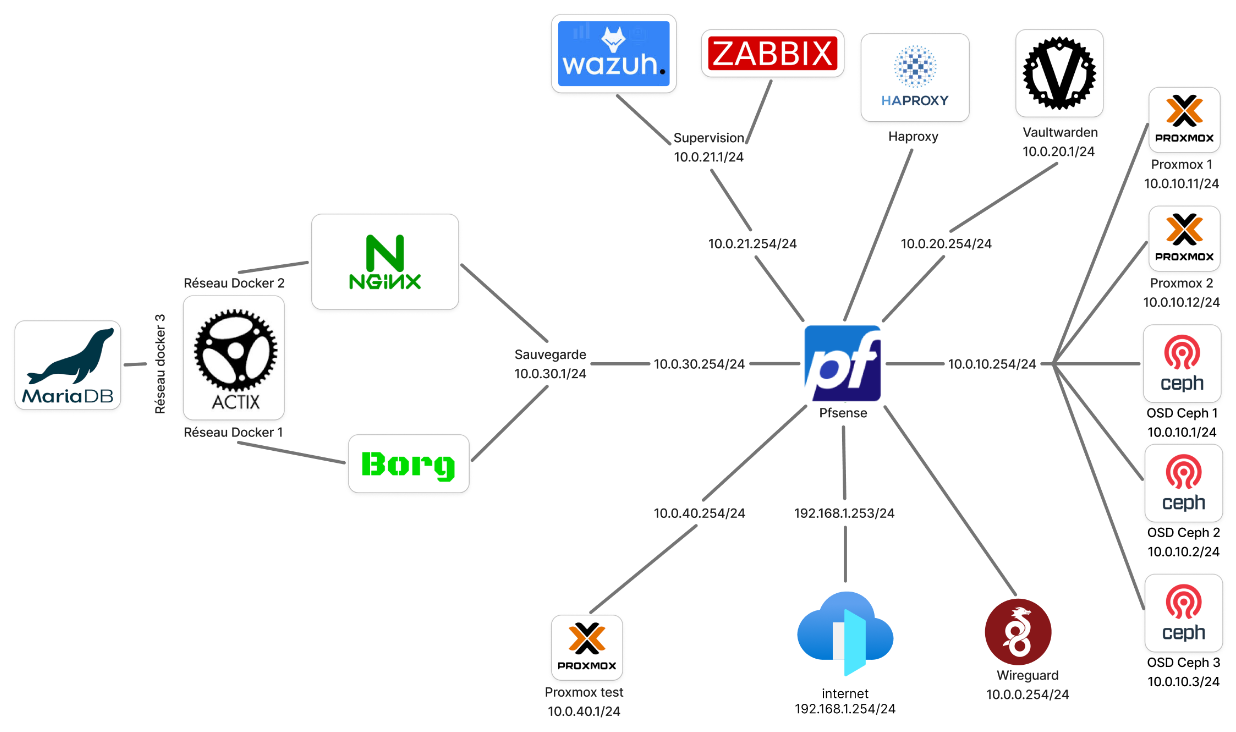
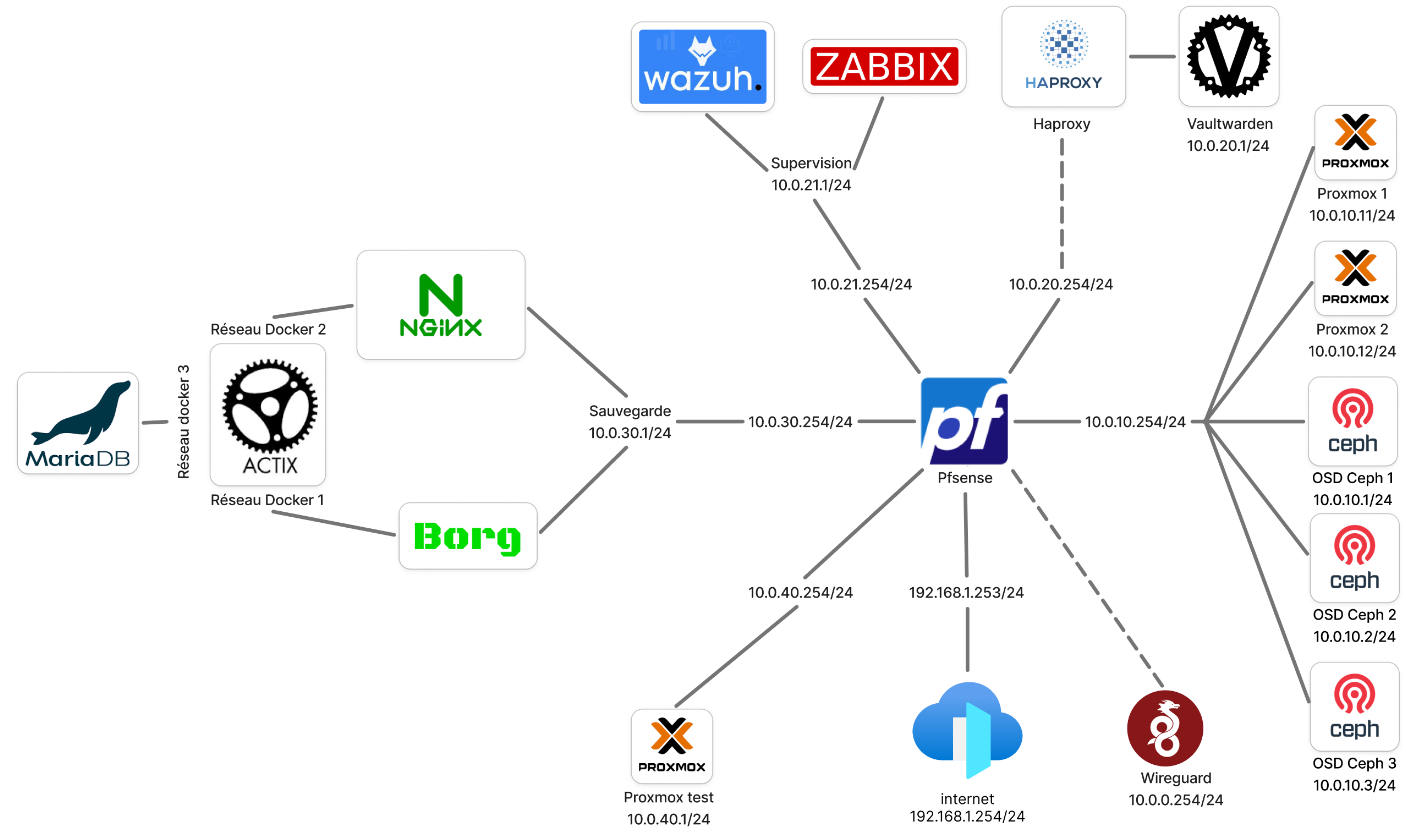
documentation du readme.md

diff --git a/README.md b/README.md
@@ -21,7 +21,7 @@
 
 ## 2. Description du projet
 
-Ce projet consiste en une solution de sauvegarde chiffrée de fichiers sécurisée. Un utilisateur peut depuis une interface web/application sauvegarder ses fichiers en toute sécurité de n'importe où. Chaque utilisateur possède donc un compte qui lui permet d'intéragir avec ses sauvegardes et d'en créer des nouvelles. 
+Ce projet consiste en une solution de sauvegarde chiffrée de fichiers sécurisée. Il permet de séparer le processus de sauvegarde qui est automatique et invisible et la restauration des sauvegarde qui demandera toujours un mot de passe. Une application est intégrer afin définir les dossiers à sauvegarde et lors de la restauration d’une sauvegarde chiffrer que cette action ne soit pas automatique comme pour la sauvegarde mais requiert des identifiants. Comment ça en cas de compromission du pc du client, l’attaquant ne puisse seulement qu’ajouter des données dans le dépôt du client mais ne puisse ni les restaurer ou ni les supprimer. Elle servira aussi à avoir un retour sur les logs, les archives et les fichiers qui ont été sauvegarder mais également à créer le dépôt Borg et authentifier les utilisateurs.
 
 ## 3. Infrastructure
 L'infrastructure fonctionne en plusieurs étages :
@@ -48,6 +48,12 @@ Ceph | Ubuntu | 2 | 2Go | **D1:** 30Go ; **D2:** 250Go | 1
 Proxmox | Proxmox | 10 | 10Go | **D1:** 100Go | 1
 Supervision | Debian | 4 | 4Go | **D1:** 150Go | 1
 
+**Infrastructure de virtualisation redondante**
+
+Avec notre cluster de 3 Ceph, on est capable de créer un pool RADOS. C'est un protocole permettant aux Proxmox de de stocker le disque des VM sur le cluster Ceph. Ce système de stockage est capable de distribué sous forme d'objet par le réseau les données des disques. Ainsi avec les 2 Proxmox, si l'un deux s'éteint ou est en maintenance, il migre la VM sans interruption sur l'autre Proxmox. Et si l'un des Ceph s'arrête, le pool passe en lecture seul et attendra que ce dernier redémarre ou l'ajout d'une nouvelle machine Ceph.
+
+Nous somme capable de perdre 1 Proxmox et 1 Ceph mais nous passerons en lecture seul.
+
 ### Niveau 3
 ![](/documentations%20des%20outils/images/infra%20niveau%203.png)
 Voici l'infrastructure complète avec toutes le VM, service et conteneur disponible.
@@ -57,6 +63,8 @@ Service|Fonction|Description
 ---|---|---
 Wireguard|VPN|Accès distant au réseau interne
 Haproxy|Proxy|Le vault est accessible uniquement par le proxy et ajoute le chiffrement HTTP que vaultwarden n'a pas
+
+
 
 **Machine virtuelle**
 
@@ -93,19 +101,27 @@ Voici une liste exhaustive des fonctionnalités disponibles dans notre projet:
 - Sauvegarde de fichiers chiffré
 - Gestionnaire de mot de passe
 - Interface WEB
-- Application electron
+- Application tauri
+- Supervision de l'infrastructure
+- Infrastructure de virtualisation redondante
+- API d'authentification et restauration.
+- Un accès distant à l'infrastructure interne avec le VPN Wireguard
 
 ## 5. Technologies utilisées
 * Comme hyperviseur principal nous avons choisi [Proxmox](https://www.proxmox.com/en/) car c'est un outil très complet nous donnant toutes les fonctionnalitées nécessaire pour notre projet.
 * Comme routeur/pare-feu nous utilisons [Pfsense](https://www.pfsense.org/), outil très puissant et gratuit nous donnant tout les outils nécessaires concernant les accès aux différentes machines, redirection de port et la création des VLANs pour isoler les machines entre elles et n'autoriser que le traffic nécessaire.
 * L'outil de sauvegarde que nous utilisons est [Borg](https://www.borgbackup.org/) car il répond parfaitement à la demande des sauvegardes chiffrées et qu'il est open source.
 * Pour la sécurité de toutes les machines de l'infrastructure nous utilisons la solution open source [Wazuh](https://wazuh.com/) qui nous permet d'avoir une vue d'ensemble sur les machines et des vulnérabilités.
-* Comme gestionnaire de mot de passe intégré, nous avons choisi la solution [VaultWarden](https://github.com/dani-garcia/vaultwarden) qui est gratuite et open source. On ajoute à cela la solution [zabbix](https://www.zabbix.com/fr) qui nous permet une vue d'ensemble des machines concernant leur statistiques CPU, mémoire et leur stockage.
+* Comme gestionnaire de mot de passe intégré, nous avons choisi la solution [VaultWarden](https://github.com/dani-garcia/vaultwarden) qui est gratuite et open source. 
+* La solution [zabbix](https://www.zabbix.com/fr) qui nous permet une vue d'ensemble des machines concernant leur statistiques CPU, mémoire et leur stockage.
 * Les sauvegardes sont sauvegarder sur des machines utilisant le système de [Ceph](https://ceph.io/en/), qui réplique automatiquement les sauvegardes sur d'autres disques pour garantir une redondance.
-
+* Pour déployer notre solution de sauvegarde rapidement et n'importe où on utilise [Docker](https://www.docker.com/) car c'est la solution de conteuneurisation qu'on a le plus utilisé jusqu'à présent.
+* Pour la réalisation de notre API nous avons utilisé le framework [Actix Web](https://actix.rs/) qui est un service web codé en rust. Nous pensons que le rust est le langage du futur.
+* Pour le chiffrement, nous utilisons [AES-256-GCM](https://en.wikipedia.org/wiki/Galois/Counter_Mode) c'est l'un des plus connues et utilisé pour le chiffrement de fichier 
+* Pour la dérivation de mot de passe nous employerons [Argon2id](https://en.wikipedia.org/wiki/Argon2) qui est résistant contre les attaques de brute-force avec GPU et les side-channel attacks.
 ## 6. Fonctionnement 
 
-1. Un utilisateur se créer un compte sur le site avec un nom d'utilisateur et un mot de passe 
-2. Il peut alors télécharger notre application
+1. Un utilisateur se créer un compte sur l'application [Strongholder](https://strongholder.fr/) téléchargeable sur le site avec un nom d'utilisateur et un mot de passe et son repos de sauvegarde se créera.
+2. Il peut alors lancer notre application sur Windows ou Linux
 ![ScreenApp](/documentations%20des%20outils/images/AppAccueil.png)
 3. Il peut désormais envoyer ses sauvegardes en tout sécurité sur notre infrastructure
